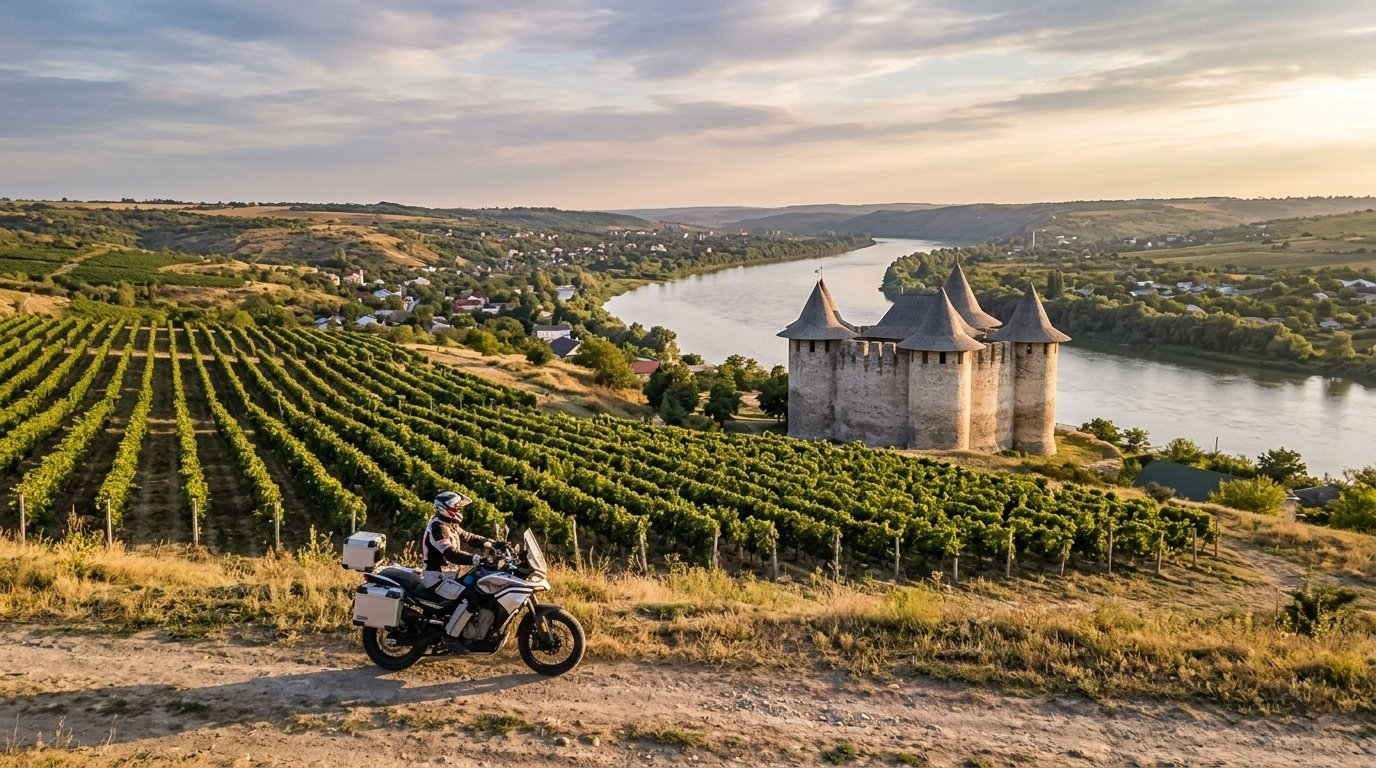
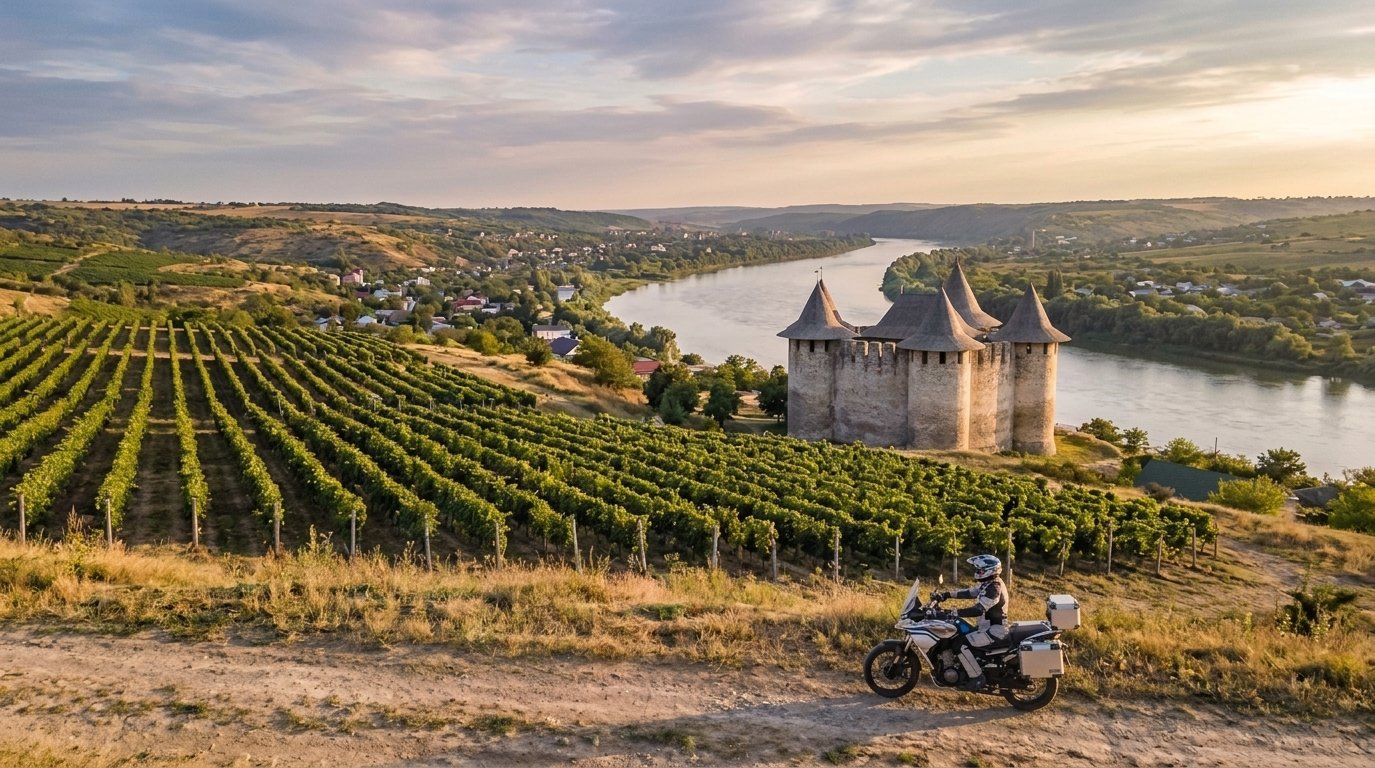
feat: replace hero with clearer daytime rider + Soroca fortress shot
New photo has rider and motorcycle prominently visible in centre-bottom,
fortress and Nistru river winding behind, warm golden-hour light.
objectPosition set to center 60% to keep rider in frame.

diff --git a/src/pages/Home.jsx b/src/pages/Home.jsx
@@ -659,8 +659,8 @@ export default function MoldovaMotorTours() {
       {/* ─── HERO ─── */}
       <section id="hero" style={{ position: "relative", height: "100vh", minHeight: 600, display: "flex", alignItems: "center", overflow: "hidden" }}>
         <img src="/hero.jpg"
-          alt="Motorcyclist riding past Soroca fortress with Nistru River and vineyards"
-          style={{ position: "absolute", inset: 0, width: "100%", height: "100%", objectFit: "cover", objectPosition: "center 55%" }} />
+          alt="Rider and motorcycle above Soroca fortress, Nistru River and vineyards at sunset"
+          style={{ position: "absolute", inset: 0, width: "100%", height: "100%", objectFit: "cover", objectPosition: "center 60%" }} />
         <div className="overlay-gradient" style={{ position: "absolute", inset: 0 }} />
         <div style={{ position: "absolute", inset: 0, background: "linear-gradient(to bottom, rgba(0,0,0,0.45) 0%, rgba(0,0,0,0.18) 50%, rgba(0,0,0,0.05) 100%)" }} />
 
